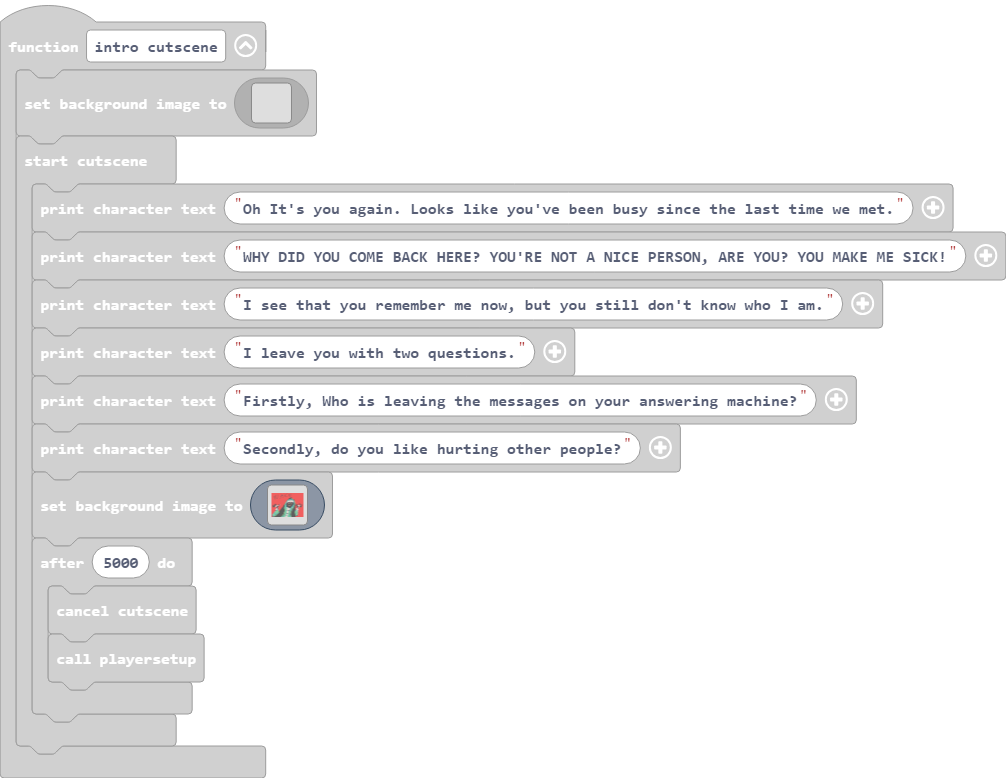
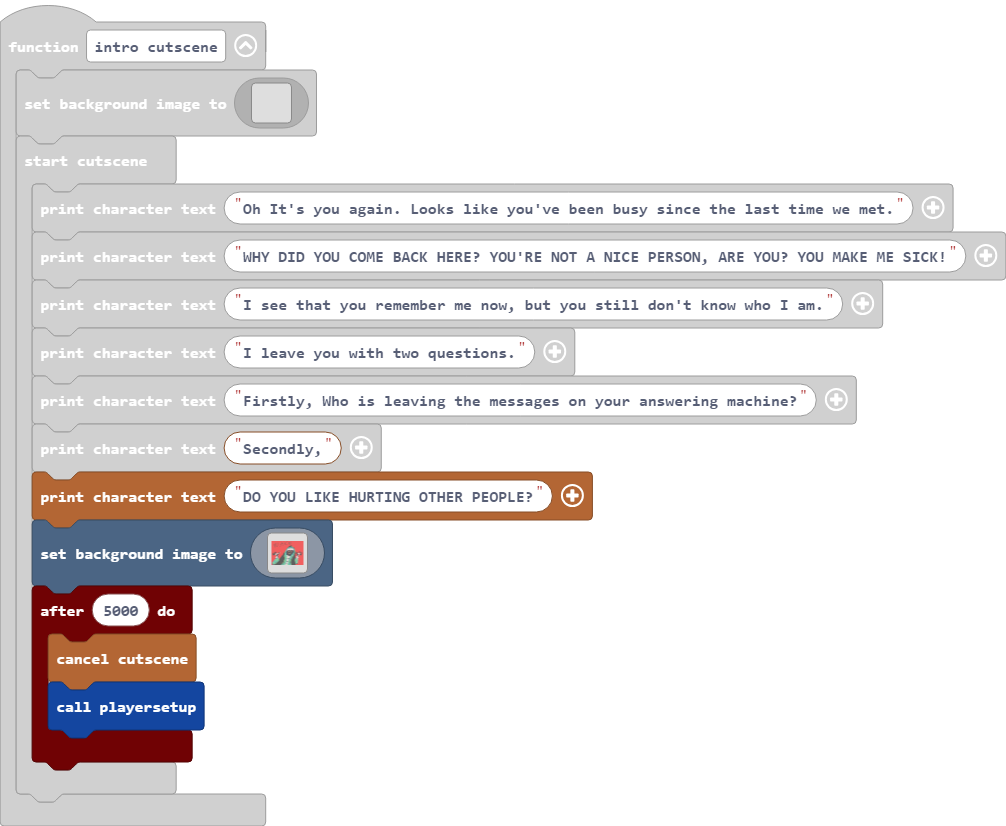
edit pic and dialogue

Changed region(s): [[0.0, 0.0308, 1.0, 0.9871]]

diff --git a/main.ts b/main.ts
@@ -272,7 +272,8 @@ function intro_cutscene () {
         story.printCharacterText("I see that you remember me now, but you still don't know who I am.")
         story.printCharacterText("I leave you with two questions.")
         story.printCharacterText("Firstly, Who is leaving the messages on your answering machine?")
-        story.printCharacterText("Secondly, do you like hurting other people?")
+        story.printCharacterText("Secondly,")
+        story.printCharacterText("DO YOU LIKE HURTING OTHER PEOPLE?")
         scene.setBackgroundImage(assets.image`phobetor colors`)
         timer.after(5000, function () {
             story.cancelCurrentCutscene()
